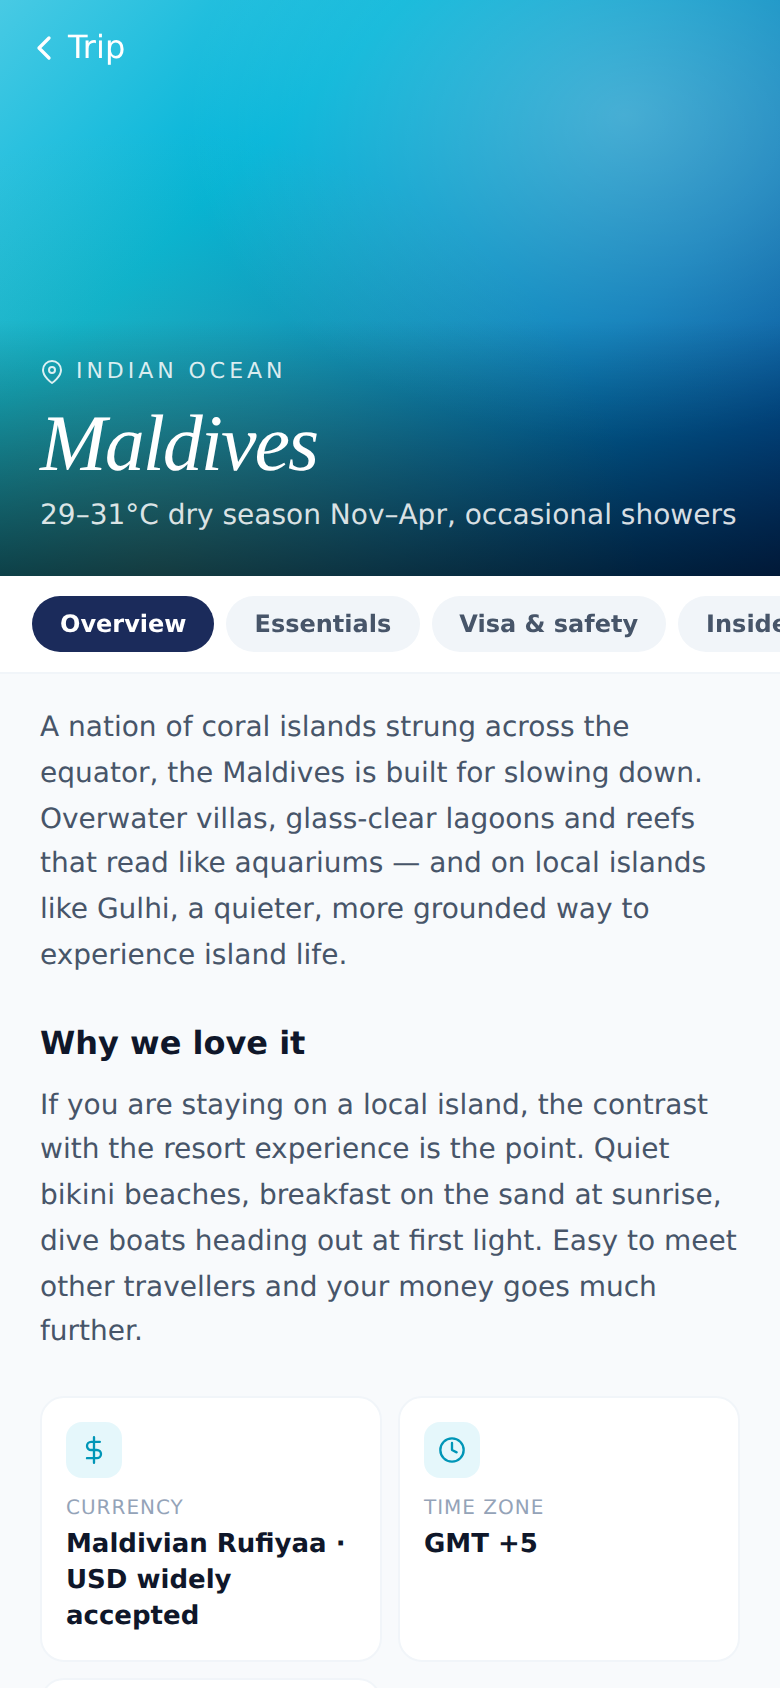
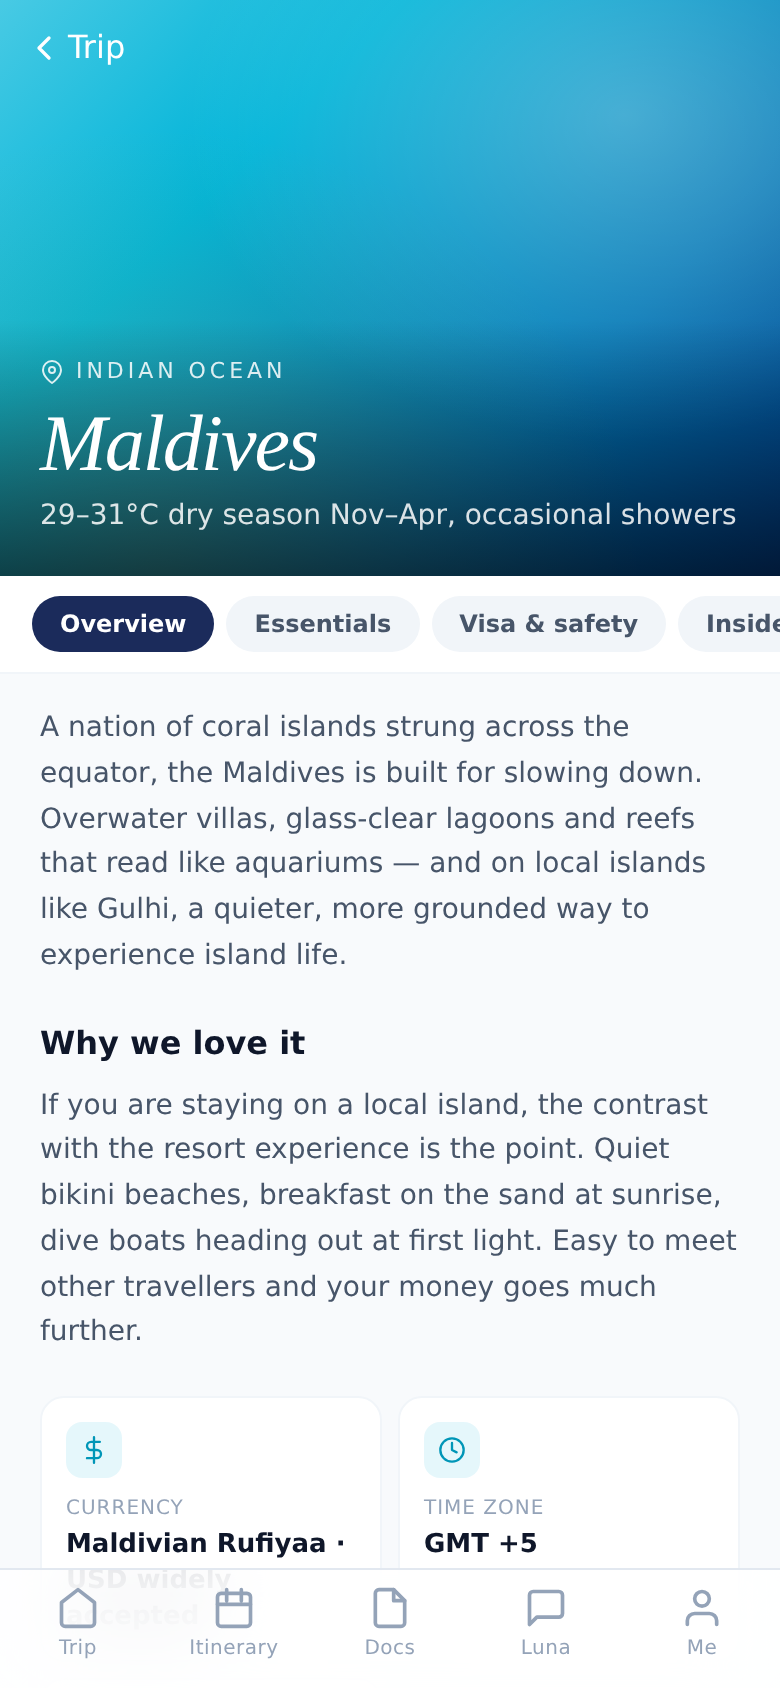
Close the screenshot gaps, and add a smoke test that would have caught it (#52)
The two screens I said could not be captured both can be, and the second
was worth the look: the walkthrough is now verified by clicking it rather
than by reasoning about it.

THE TRIP HOME. `/` shows the "add your trip" onboarding until a booking
has resolved, and a signed session alone is not enough. But the app has
its own demo deep-link — ?demo=<ref>, the TravelTech Show path — which
opens the demo trip directly. That is the screen that actually sells the
product, so it now leads the gallery.

THE PORTAL. A Control agency resolves entirely from its own session
claims (resolvePortalAgency), so a session minted against the local dev
JWT_SECRET renders the whole portal with no database behind it. The two
screens the setup steps talk about — branding and Send access — now sit
inside those steps, so the picture is beside the instruction rather than
in a gallery further down. The rest of the portal is still not captured:
those lists are empty without a database, and an agent reading the guide
is already looking at the real thing.

THE SMOKE TEST is the part I would keep. `npm run smoke` drives a browser
over every screen an agency or traveller opens and walks the tour to the
end. It exists because the walkthrough shipped with a bug — pressing Next
reloaded the page — that no unit test could have caught and one click
would have. Two of its checks are that regression directly: Next never
changes the page, Next never jumps the scroll. 27 checks, all passing.
[…]

diff --git a/src/app/agency/guide/page.tsx b/src/app/agency/guide/page.tsx
@@ -13,9 +13,10 @@
  * goes wrong.
  *
  * THE SCREENSHOTS ARE REAL. `npm run guide:shots` drives a browser at a running
- * app and captures the traveller screens at phone size (scripts/guide-
- * screenshots.mjs). Drawings of a screen drift from the product the first time
- * somebody moves a button; a screenshot that can be regenerated does not.
+ * app and captures them — the traveller app on a phone, the two portal screens
+ * the setup steps talk about on a desk (scripts/guide-screenshots.mjs).
+ * Drawings of a screen drift from the product the first time somebody moves a
+ * button, and nobody notices; a screenshot that can be regenerated does not.
  *
  * The troubleshooting is not padding. Every entry is something that has already
  * gone wrong for a real agency, and the first one accounts for more failed
@@ -49,6 +50,23 @@ function Tip({ children }: { children: React.ReactNode }) {
       <Lightbulb size={14} style={{ color: '#b45309', flexShrink: 0, marginTop: 2 }} />
       <div style={{ fontSize: 12.5, color: '#92400e', lineHeight: 1.55 }}>{children}</div>
     </div>
+  );
+}
+
+/** A real portal screen, shown inside the step that explains it. */
+function WideShot({ src, alt, caption }: { src: string; alt: string; caption: string }) {
+  return (
+    <figure style={{ margin: '12px 0 0' }}>
+      <div
+        style={{
+          borderRadius: 12, overflow: 'hidden', border: `1px solid ${P.line}`,
+          background: '#fff', boxShadow: '0 6px 18px rgba(13,24,54,0.09)',
+        }}
+      >
+        <Image src={src} alt={alt} width={1000} height={860} style={{ width: '100%', height: 'auto', display: 'block' }} />
+      </div>
+      <figcaption style={{ fontSize: 11.5, color: P.ink3, lineHeight: 1.5, marginTop: 6 }}>{caption}</figcaption>
+    </figure>
   );
 }
 
@@ -86,7 +104,14 @@ function H2({ children }: { children: React.ReactNode }) {
 
 // ── Setup, step by step ──────────────────────────────────────────────────────
 
-const SETUP: { title: string; where: string; href: string; body: React.ReactNode; tip?: React.ReactNode }[] = [
+const SETUP: {
+  title: string;
+  where: string;
+  href: string;
+  body: React.ReactNode;
+  tip?: React.ReactNode;
+  shot?: { src: string; alt: string; caption: string };
+}[] = [
   {
     title: 'Brand the app',
     where: 'App branding',
@@ -111,6 +136,11 @@ const SETUP: { title: string; where: string; href: string; body: React.ReactNode
         impressions only happen once.
       </>
     ),
+    shot: {
+      src: '/guide/portal-branding.png',
+      alt: 'The App branding screen, with the form on the right and a live phone preview on the left',
+      caption: 'The phone on the left is a live preview — it re-skins as you type.',
+    },
   },
   {
     title: 'Say where replies should go',
@@ -183,6 +213,11 @@ const SETUP: { title: string; where: string; href: string; body: React.ReactNode
         whole thing work end to end — including what your traveller receives.
       </>
     ),
+    shot: {
+      src: '/guide/portal-access.png',
+      alt: 'The Send access screen, with fields for booking reference, traveller email and departure date',
+      caption: 'Fill in the three fields, press Create access link, and send the link or the QR code.',
+    },
   },
   {
     title: 'Check it landed',
@@ -366,6 +401,7 @@ function Guide() {
                 {step.body}
               </div>
               {step.tip && <Tip>{step.tip}</Tip>}
+              {step.shot && <WideShot {...step.shot} />}
             </div>
           </li>
         ))}
@@ -380,9 +416,14 @@ function Guide() {
       <div
         style={{
           display: 'grid', gap: 14,
-          gridTemplateColumns: 'repeat(auto-fit, minmax(190px, 1fr))',
+          gridTemplateColumns: 'repeat(auto-fit, minmax(170px, 1fr))',
         }}
       >
+        <Shot
+          src="/guide/traveller-home.png"
+          alt="The traveller home screen, showing a countdown to the trip and quick links"
+          caption="Their trip, counting down, in your name and your colours. The branding here is a sample agency's — it will be yours."
+        />
         <Shot
           src="/guide/traveller-itinerary.png"
           alt="The itinerary screen, showing flights, a lounge and hotel check-in on a timeline"

diff --git a/docs/AGENCY-ONBOARDING.md b/docs/AGENCY-ONBOARDING.md
@@ -97,14 +97,34 @@ Real screens rather than drawings, because a drawing drifts from the product the
 first time somebody moves a button. Regenerate them when the traveller app
 changes.
 
-The traveller app falls back to a demo booking when nobody is signed in, which
-is what makes this possible at all. **The trip home is deliberately not
-captured**: `/` shows the "add your trip" onboarding until a real booking has
-loaded, and a signed session alone is not enough — it wants a booking it can
-actually fetch. Capturing it needs an environment with one behind it, and
-shipping a screenshot of the empty state dressed up as a trip would be worse
-than leaving it out.
+Two things make this work with no database behind it:
 
-The portal itself is not captured either. It needs a signed-in agency, and a
-picture of the portal the agent is already looking at teaches nobody anything —
-that is what the walkthrough is for.
+- The traveller app falls back to a **demo booking** when nobody is signed in,
+  and `?demo=<ref>` (the app's own deep-link) opens the trip home, which
+  otherwise shows the "add your trip" onboarding.
+- A **Control agency resolves entirely from its own session claims**
+  (`resolvePortalAgency`), so a session minted against the local dev
+  `JWT_SECRET` renders the whole portal.
+
+Only the two portal screens the setup steps talk about are captured. The rest of
+the portal is a list that is empty without a database, and an agent reading the
+guide is already looking at the real thing.
+
+## Smoke test
+
+`npm run smoke` drives a browser over every screen an agency or traveller
+opens, and walks the tour end to end:
+
+```
+npm run build
+JWT_SECRET=local-development-secret-at-least-32-chars npx next start
+npm run smoke                                   # in another terminal
+```
+
+It exists because the walkthrough shipped with a bug — pressing Next reloaded
+the page — that no unit test could have caught and one click would have. Two of
+its checks are that regression directly: *Next never changes the page* and
+*Next never jumps the scroll*.
+
+Same no-database trick as the screenshots, so it needs only a local server.
+Lists will be empty; this checks screens render, not that they render data.
